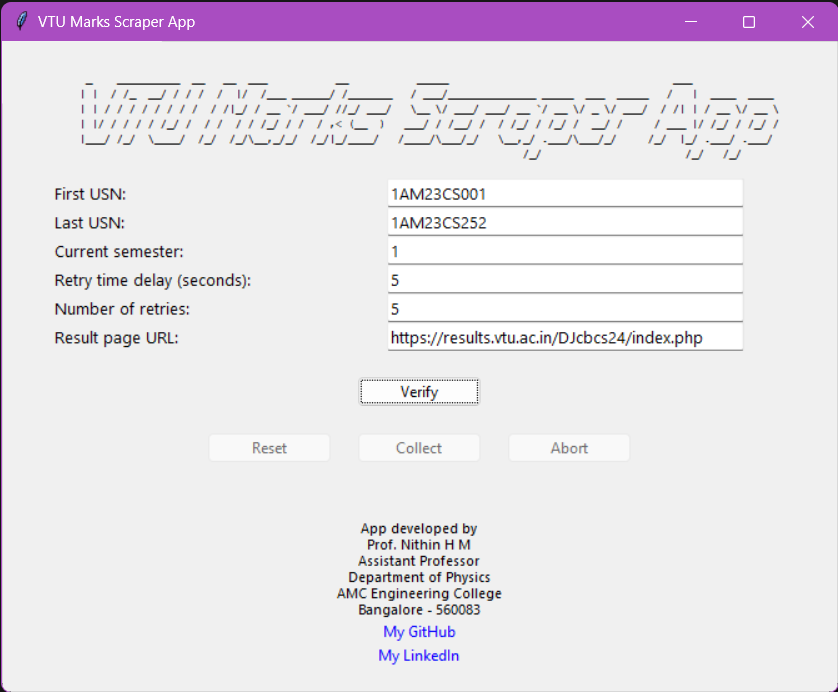
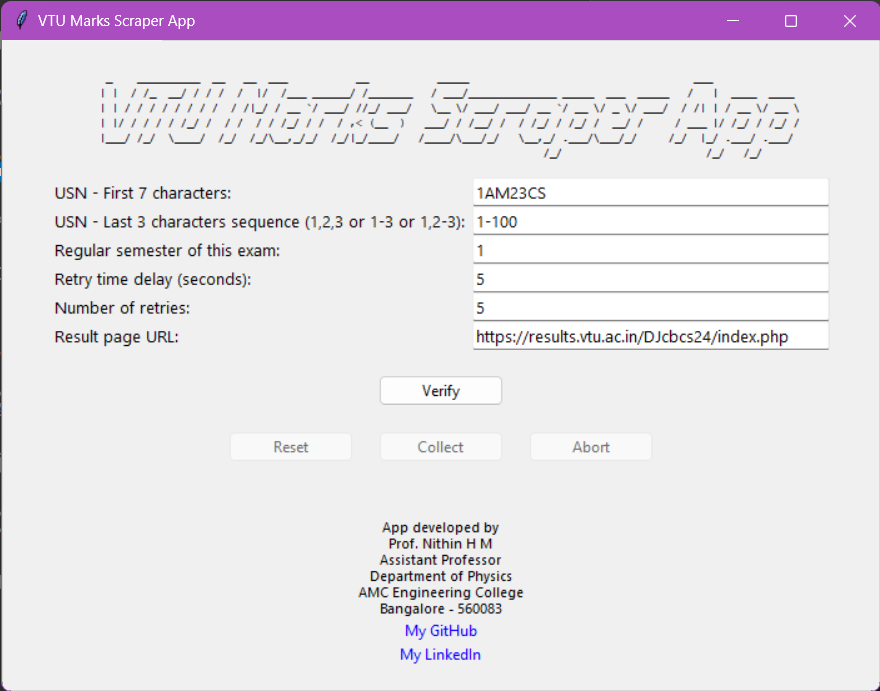
fixing processor and updating readme

diff --git a/data_processor.py b/data_processor.py
@@ -276,7 +276,7 @@ class DataProcessor():
                 
                 full_credits_data = full_credits_data.T
 
-                new = pd.merge(full_data, full_arrear_data, how='outer')
+                new = pd.merge(full_data, full_arrear_data, how='outer') if arrear_data else full_data.copy()
 
                 subjs = [x[0] for i, x in enumerate(new.columns) if '(' in x[0] and i%4==0]
 
@@ -313,7 +313,8 @@ class DataProcessor():
                     sgpa_report.loc[i, ('SGPA', '')] = round(num/den, 2)
                 
                 sgpa_report = sgpa_report.convert_dtypes()
-                sgpa_report.index += 1
+                if arrear_data:
+                    sgpa_report.index += 1
                 self.sgpa = True
                 self.sgpa_report = sgpa_report
 

diff --git a/README.md b/README.md
@@ -4,16 +4,17 @@ This app is designed to retrieve student marks data from the VTU (Visvesvaraya T
 
 - **Marks Scraper**: An automated tool that retrieves student marks data from the VTU website and stores it in a CSV file. Regular and arrear results will be stored in seperate files. Depending on the URL link that is entered in the scraper, the tool will decide whether to collect revaluation marks or regular/arrear marks.
 
-- **Marks Analyer**: A tool that generates result analysis based on the data collected by the scraper and saves it in an Excel file. It also provides a graphical representation of subject performance in the form of an image file. This tool can update the old marks with the new revaluation marks (if any) and provide an updated analysis.
+- **Marks Analyer**: A tool that generates result analysis and calculates SGPA based on the data collected by the scraper and saves it in an Excel file. It also provides a graphical representation of subject performance in the form of an image file. This tool can update the old marks with the new revaluation marks (if any) and provide an updated analysis.
 
 The repository provides both the source code and a packaged release for ease of use.
 
 ## Features
 
-- Collects marks data for all students of a branch from the VTU website.
+- Collects marks data for all or specific students of a branch from the VTU website.
 - Supports automation using Selenium WebDriver.
 - **Handles the USN entry and CAPTCHA verification automatically.**
 - Processes the collected data to generate an Excel file.
+- Calculates SGPA for each student.
 - Provides an easy-to-use graphical-user interface (GUI) app through Tkinter.
 - Handles common errors. While collecting data, if the number of retries crosses the set limit due to any errors, the data collected till that point will be saved.
 
@@ -60,7 +61,7 @@ python "main.py"
     <img src="images\scraper.png" width="400">
 </p>
 
-6. Enter the required information, such as the first USN, last USN, current semester, etc.
+6. Enter the required information. The second field can accept entries like `1-100` (1 to 100), `1,2,3` (1, 2, and 3 only), or even a combination of both `1-10,13,15,20-30` (1 to 10, then 13 and 15, and then 20 to 30).
 
 7. Click "Verify" to verify the input. If the entered data is valid, you can click "Collect". You will be asked whether you want to look at the automation process or not.
 
@@ -70,13 +71,15 @@ python "main.py"
 
 10. If you wish, you can continue to gather data for other branches or simply stop. (You can also gather data in segments for the same branch and use the analyzer app to merge all the segments to create the final analysis report.)
 
+- To help in calculating the SGPA, another CSV file called `Credit Info` will be saved in the same folder. Before doing the analysis, make sure to open the file, fill in the credits in the second column for the courses mentioned, and save the file. If you do not wish to calculate the SGPA, this step can be skipped.
+
 <p align="center">
     <img src="images\analyzer.png" width="400">
 </p>
 
 11. After you have collected the data for all the students from a branch, close the scraper window. The main window reappears. Click the `Marks Analyzer` button. The analyzer app will open.
 
-12. Select "Browse" and choose the saved raw CSV files that hold the marks data of regular marks, arrear marks, and revaluation marks (if any). Selecting files containing regular marks is compulsory.
+12. Select "Browse" and choose the saved raw CSV files that hold the marks data of regular marks, arrear marks, revaluation marks (if any), and the credit info file. Selecting files containing regular marks is compulsory.
 
 13. Click on "Analyze" and do as instructed. This will generate an Excel file with the marks and their analysis (check the different sheets in the Excel workbook) in the selected folder.
 
